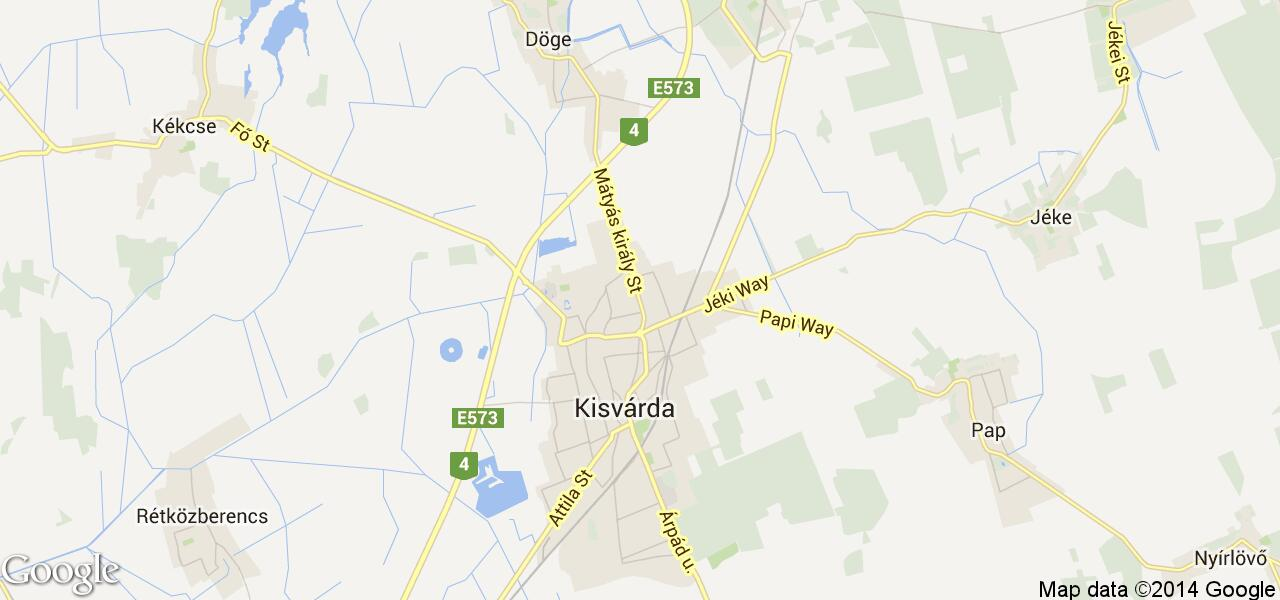
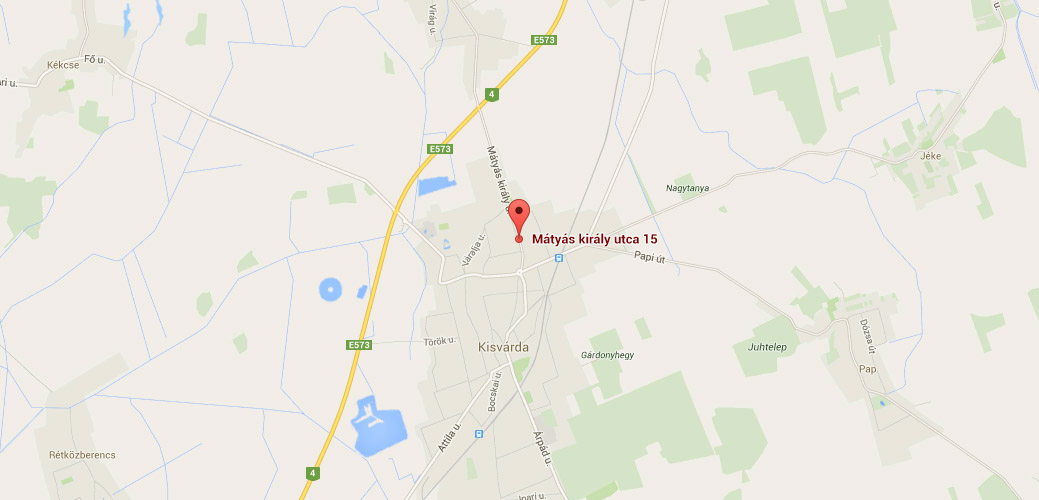
changed map image and height | reduced gap between menu and 1st paragraph #77

diff --git a/index.php b/index.php
@@ -99,18 +99,21 @@
 		  		width: 100%;
 		  	}
 		  	@media only screen and (orientation: landscape) {
+		  		#main_nav {
+		  			height: 4em;
+		  		}
 		  		#kapcsolat .map {
-		  			background: url('images/noscript_map.jpg') no-repeat;
+		  			background: url('images/noscript_map.jpg') no-repeat center center;
 		  		}
 		  	}
 		  	@media only screen and (orientation: portrait) {
 		  		#kapcsolat .map {
-		  			background: url('images/noscript_map_portrait.jpg') no-repeat;
+		  			
 		  		}
 		  	}
 		  	#kapcsolat .map {	
 		  		background-size: cover;
-		  		height: 100%;
+		  		height: 500px;
 		  		margin-top: 0;
 		  	}
 		  	.map iframe {
